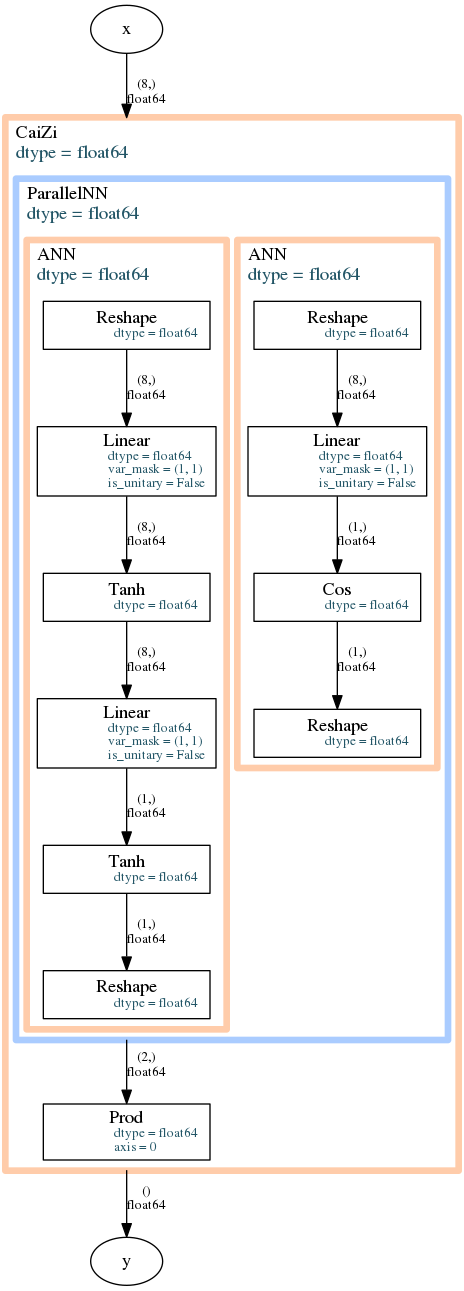
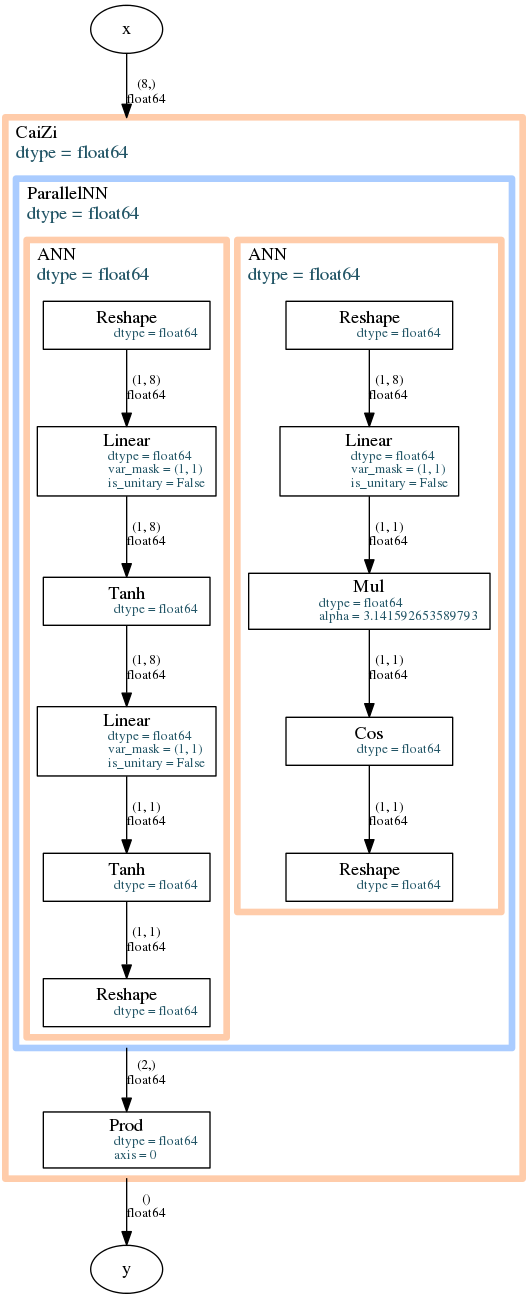
...

Changed region(s): [[0.0, 0.0, 0.9957, 1.0], [0.0603, 0.8366, 0.1207, 0.8985]]

diff --git a/benchmarks/caizi/config.py b/benchmarks/caizi/config.py
@@ -14,6 +14,8 @@ def modifyconfig_and_getnn(config, bench_id):
         config['hamiltonian']['size'] = [20]
     if bench_id == 6:
         config['hamiltonian']['size'] = [30]
+        config['vmc']['num_sample'] = 800
+        config['vmc']['num_bath_sweep'] = 200
     if bench_id == 7:
         config['hamiltonian']['size'] = [40]
     if bench_id == 8:
@@ -33,6 +35,22 @@ def modifyconfig_and_getnn(config, bench_id):
     if bench_id == 13:    
         use_conv = [True, True]
         preprocessing = True
+    if bench_id == 14:    
+        config['hamiltonian']['size'] = [40]
+        config['hamiltonian']['J2'] = 0.8
+        use_conv = [True, True]
+        preprocessing = True
+    if bench_id == 16:
+        config['hamiltonian']['size'] = [30]
+        config['hamiltonian']['J2'] = 0.8
+        preprocessing = True
+        config['optimize']['step_rate']*=3
+    if bench_id == 17:
+        use_conv = [True, True]
+        config['hamiltonian']['size'] = [40]
+        config['hamiltonian']['J2'] = 0.2
+        preprocessing = True
+        config['optimize']['step_rate']*=3
 
     version='basic'
     nsite = np.prod(config['hamiltonian']['size'])
@@ -46,8 +64,8 @@ def modifyconfig_and_getnn(config, bench_id):
     # set version
     if bench_id >= 3:
         version='sigmoid'
-    if bench_id >= 9:
-        num_features1 = [4]
+    if use_conv[0]:
+        num_features1 = [10]
 
     J2 = config['hamiltonian']['J2']
     config['hamiltonian']['EG'] = J1J2EG_TABLE[J2].get(nsite)

diff --git a/notes/report.md b/notes/report.md
@@ -820,10 +820,10 @@ For $k\neq0$, let $y(\sigma)=\sum\limits_m e^{-ikm}g(T_m\sigma)$, we have 
 
 A table of benchmark
 
-| $J_2$\\$\mathcal{N}$ | 20             | 30             | 40             | 100            |
-| -------------------- | -------------- | -------------- | -------------- | -------------- |
-| 0.                   | -8.90438652988 | -13.3219630586 | -17.7465227719 | -44.3229467082 |
-| 0.2                  | -8.20291625218 | -12.2770471706 | -16.3566615295 | -40.8572924302 |
-| 0.5                  | -7.5           | -11.25         | -15            | 37.5           |
-| 0.8                  | -8.46127240196 | -12.6588455544 | -16.8706800952 | -42.0700632095 |
+| $J_2$\\$\mathcal{N}$ | 20             | 30             | 32             | 40             | 100            |
+| -------------------- | -------------- | -------------- | -------------- | -------------- | -------------- |
+| 0.                   | -8.90438652988 | -13.3219630586 | -14.2065274377 | -17.7465227719 | -44.3229467082 |
+| 0.2                  | -8.20291625218 | -12.2770471706 | -13.0926964044 | -16.3566615295 | -40.8572924302 |
+| 0.5                  | -7.5           | -11.25         | -12            | -15            | 37.5           |
+| 0.8                  | -8.46127240196 | -12.6588455544 | -13.4992554473 | -16.8706800952 | -42.0700632095 |
 
